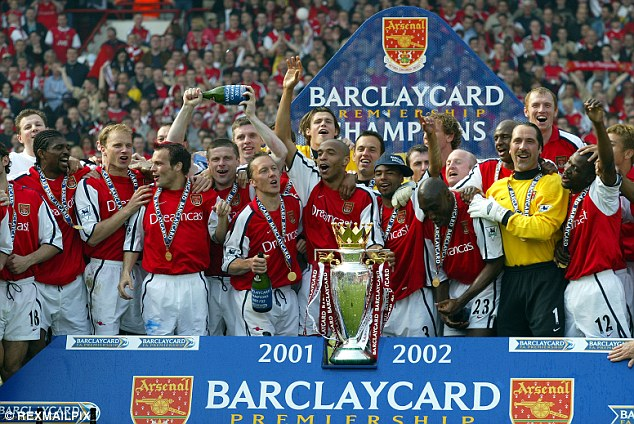
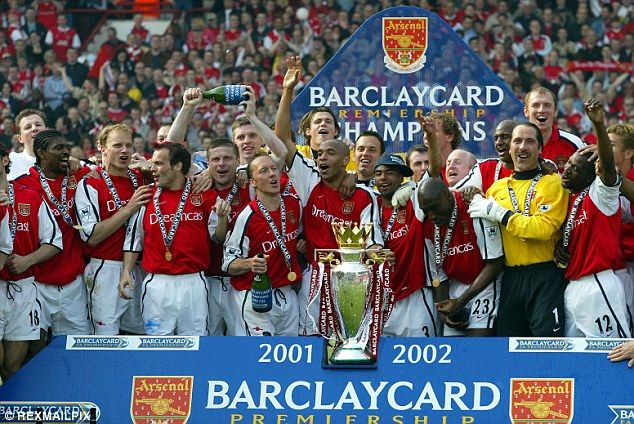
compress images

diff --git a/index.html b/index.html
@@ -13,11 +13,12 @@ layout: default
       <div class="card medium hoverable">
         <div class="card-image">
           <img class="responsive-img" src="{{ post.image }}">
-          <span class="card-title">{{ post.title }}
+
+          <span class="card-title valign-wrapper">{{ post.title }}
+            <i class="activator small material-icons right">play_circle_outline</i>
           </span>
         </div>
         <div class="card-content">
-          <i class="activator small material-icons right">play_circle_outline</i>
           <span class="post-meta">{{ post.date | date: "%b %-d, %Y" }}</span>
         </div>
         <div class="card-action">

diff --git a/_sass/content.scss b/_sass/content.scss
@@ -21,11 +21,15 @@ body::after {
   .card-title {
     background-color: #EA323D;
     opacity: 25%;
-    width:100%;
+    width: 100%;
     opacity: 0.8;
   }
+
+  i {
+   cursor: pointer;
+ }
 }
 
-.card-content i{
-  cursor: pointer;
+.video-container {
+  margin-top: 10px;
 }
